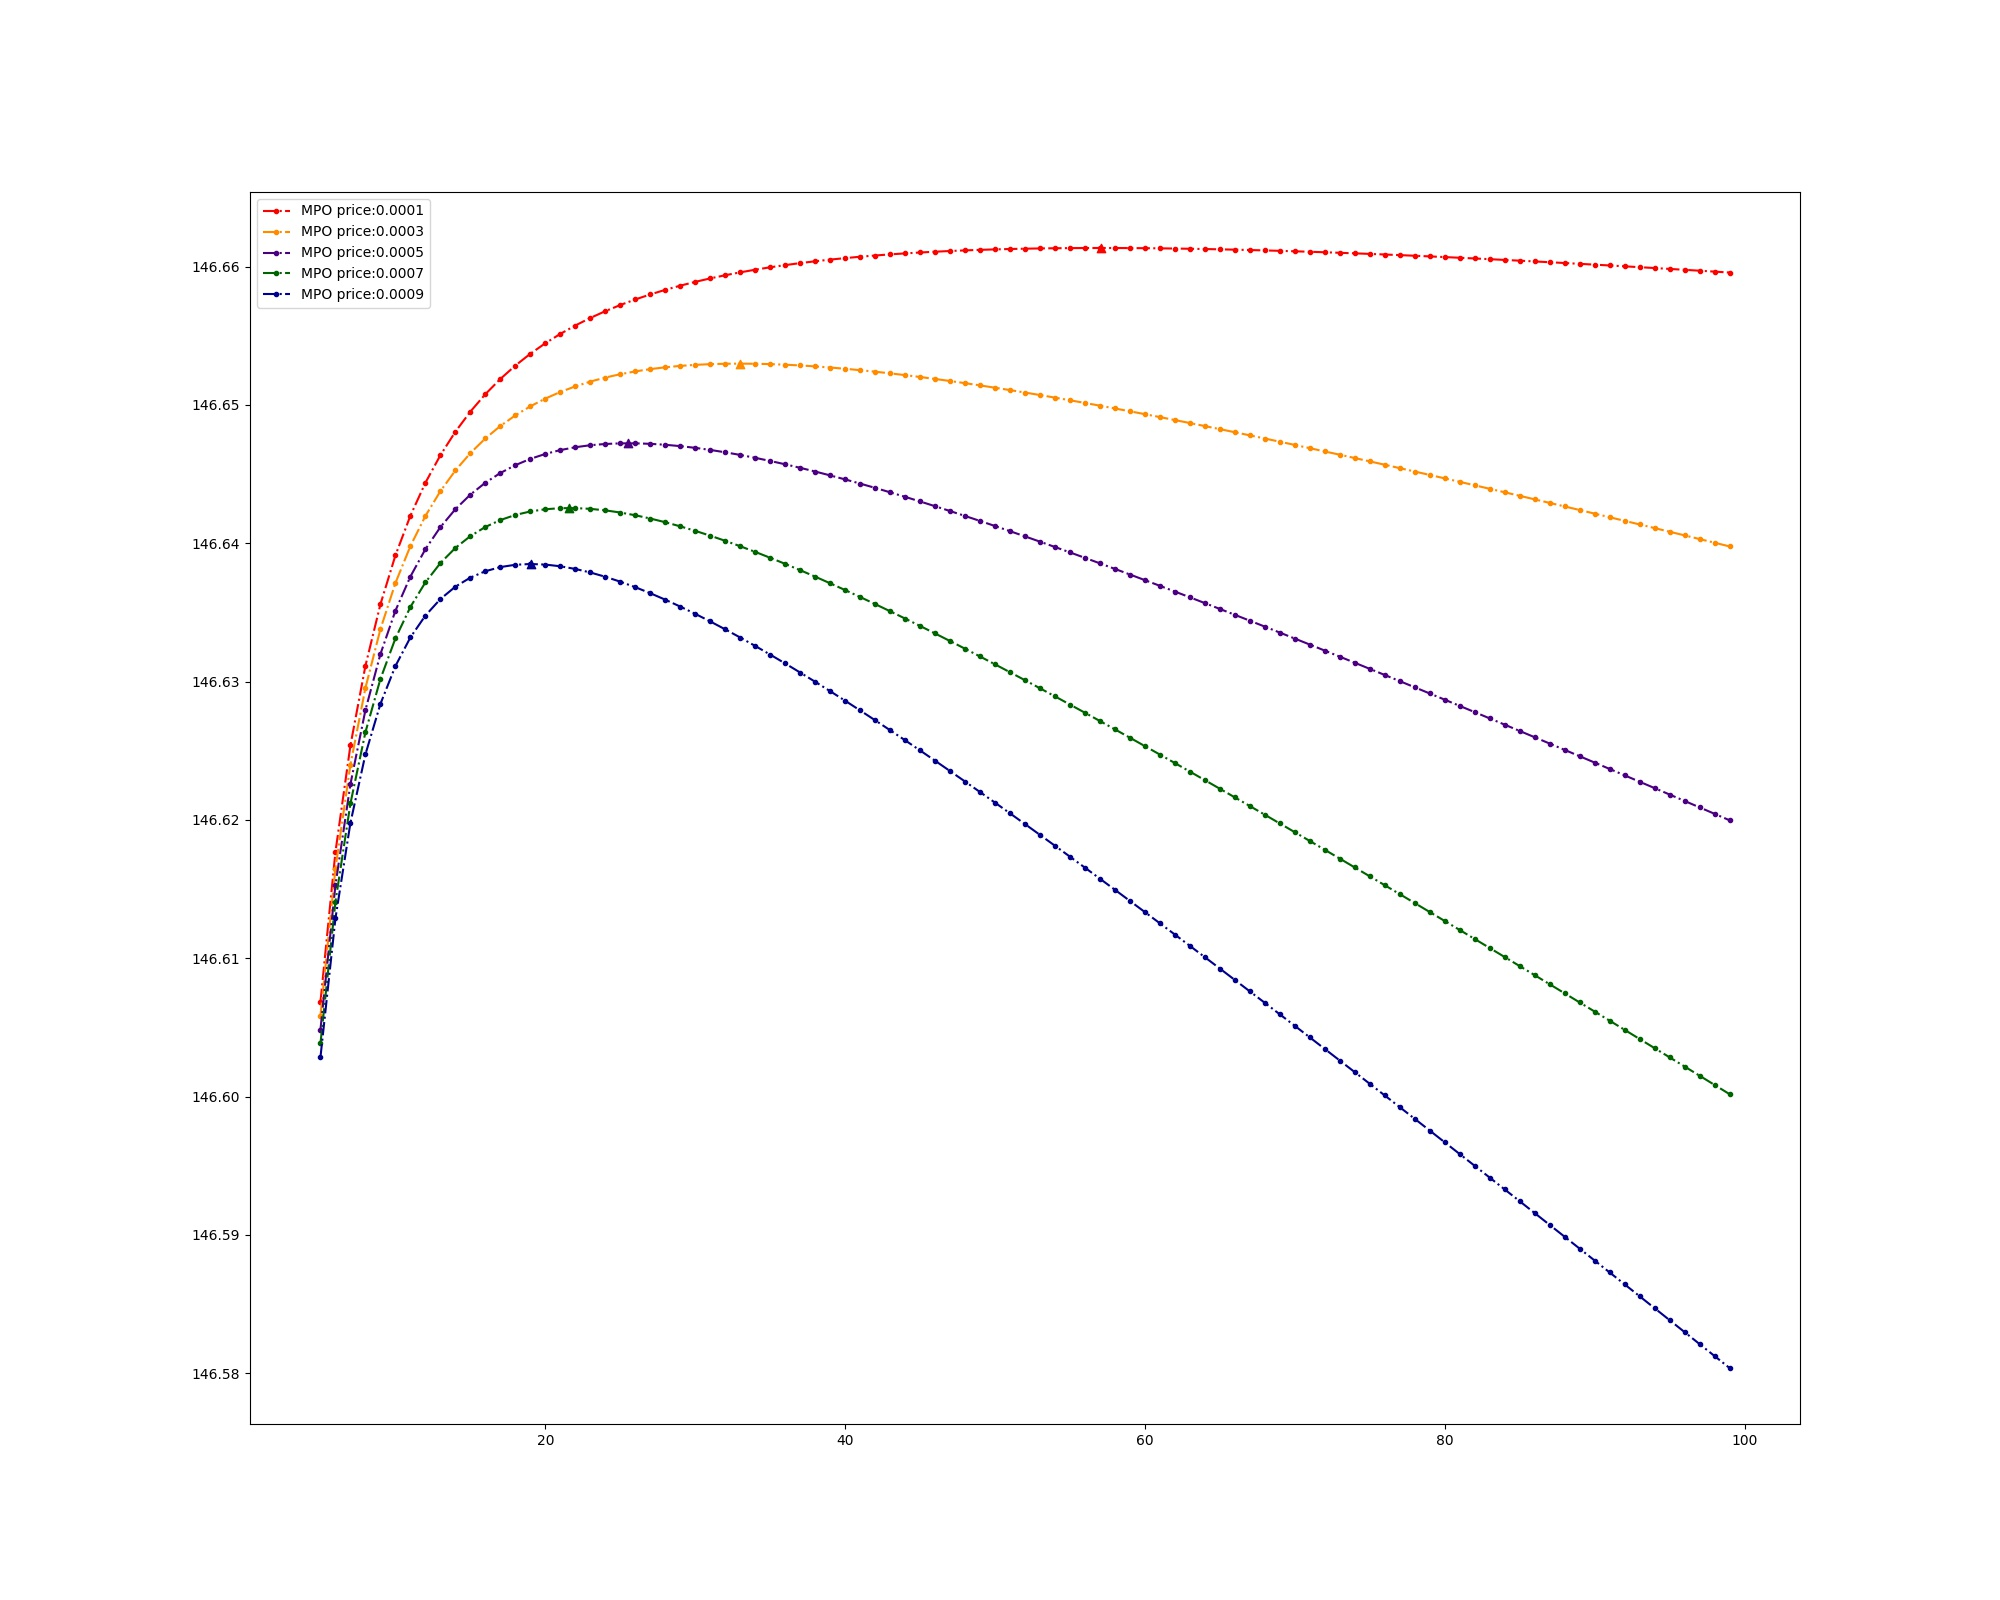
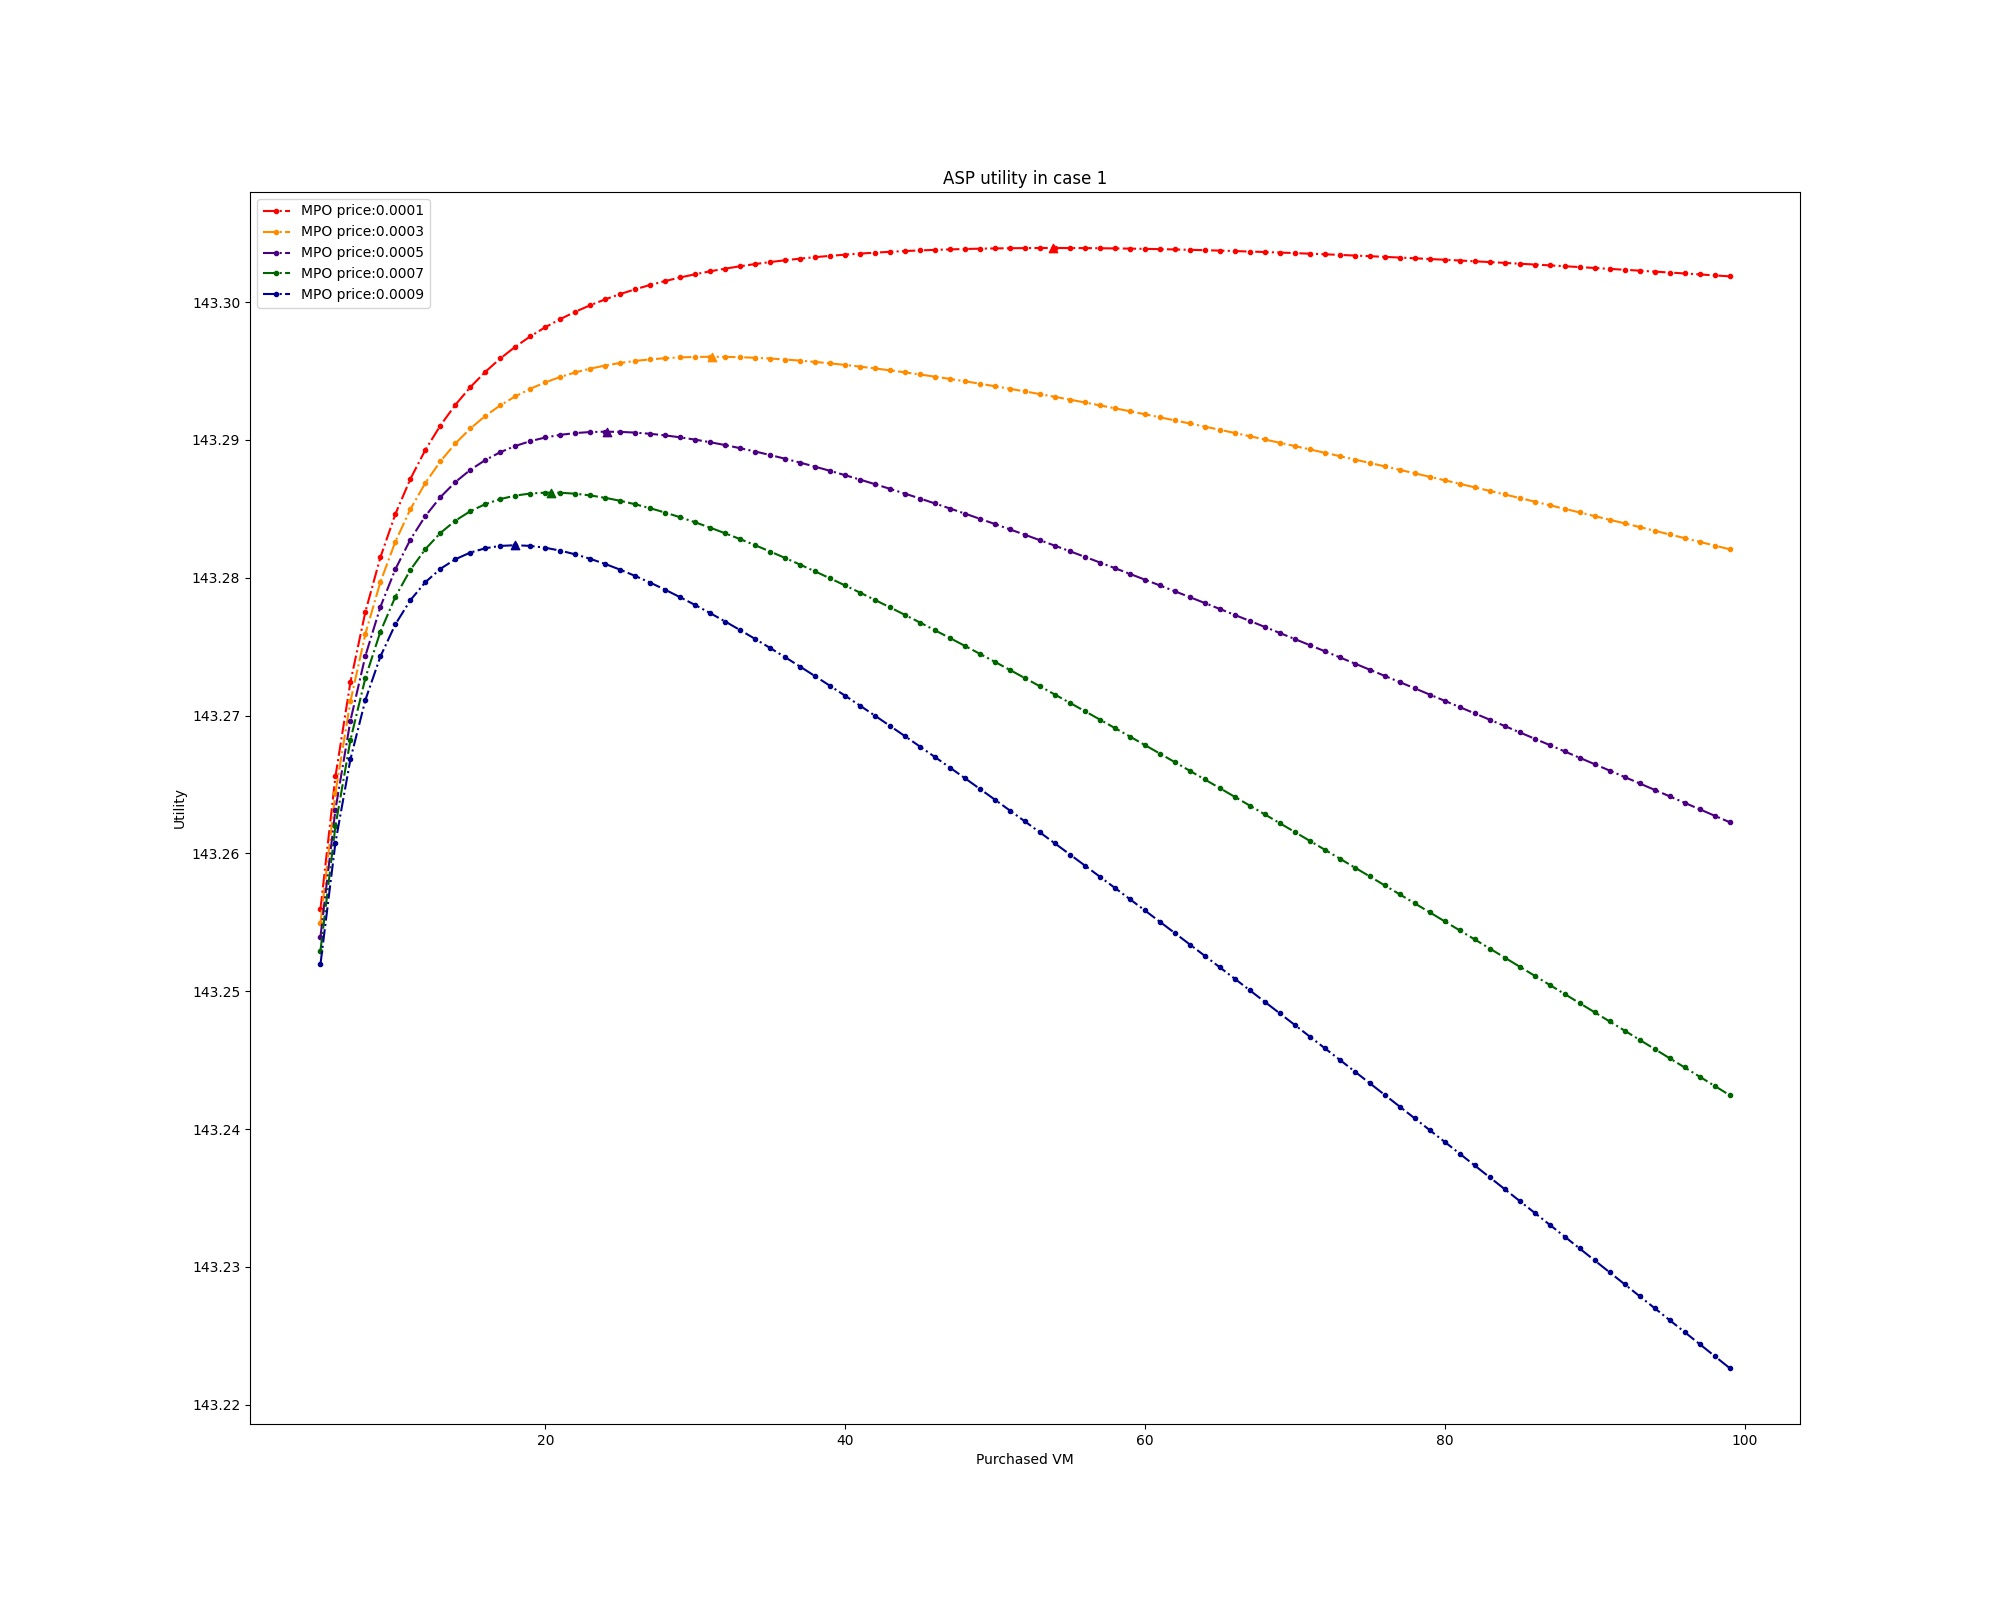
add new plot

diff --git a/simulation_code/asp.py b/simulation_code/asp.py
@@ -127,7 +127,11 @@ class ASP():
                 plt.legend(loc="best")
                 z_v = []
                 ut = []
+            plt.title('ASP utility in case 1')
+            plt.xlabel('Purchased VM')
+            plt.ylabel('Utility')
             plt.savefig('./asp_utility_case1.jpg')
+            plt.close()
         else:
             plt.figure(figsize=(20, 16))
             for mpo_price in mpo_lst:
@@ -141,7 +145,7 @@ class ASP():
                 plt.scatter(self.z_v, self.utility, color=color_dict[mpo_price], marker='^')
                 for i in range(5, 100):
                     self.z_v = i
-                    self.z_h = self.chi * self.z_v
+                    self.z_h = 0
                     self.set_process_time()
                     self.set_utility()
                     z_v.append(self.z_v)
@@ -150,6 +154,56 @@ class ASP():
                 plt.legend(loc="best")
                 ut = []
                 z_v = []
+            plt.title('ASP utility in case 2')
+            plt.xlabel('Purchased VM')
+            plt.ylabel('Utility')
             plt.savefig('./asp_utility_case2.jpg')
-            print('case2')
+            plt.close()
+
+    def plot_max_zh(self):
+        if GLOBAL_ETA > self.service_rate:
+            self.mpo_price = 0.001
+            ut = []
+            z_h = []
+            plt.figure(figsize=(20, 16))
+            for z in range(100, 105, 1):
+                self.z_v = z
+                for i in range(11):
+                    i = i / 10
+                    self.z_h = self.z_v * i
+                    self.set_process_time()
+                    self.set_utility()
+                    z_h.append(i)
+                    ut.append(self.utility)
+                plt.plot(z_h, ut, marker='.', linestyle='-.', label=f"VM :{self.z_v}")
+                ut = []
+                z_h = []
+            plt.title('ASP utility in case 1 with different z_h')
+            plt.xlabel('Security VM ratio')
+            plt.ylabel('Utility')
+            plt.legend(loc="best")
+            plt.savefig('./asp_utility_z_h_case1.jpg')
+            plt.close()
+        else:
+            self.mpo_price = 0.001
+            ut = []
+            z_h = []
+            plt.figure(figsize=(20, 16))
+            for z in range(100, 105, 1):
+                self.z_v = z
+                for i in range(11):
+                    i = i / 10
+                    self.z_h = self.z_v * i
+                    self.set_process_time()
+                    self.set_utility()
+                    z_h.append(i)
+                    ut.append(self.utility)
+                plt.plot(z_h, ut, marker='.', linestyle='-.', label=f"VM :{self.z_v}")
+                ut = []
+                z_h = []
+            plt.title('ASP utility in case 2 with different z_h')
+            plt.xlabel('Security VM ratio')
+            plt.ylabel('Utility')
+            plt.legend(loc="best")
+            plt.savefig('./asp_utility_z_h_case2.jpg')
             plt.close()

diff --git a/simulation_code/mpo.py b/simulation_code/mpo.py
@@ -66,6 +66,9 @@ class MPO():
 
         plt.figure(figsize=(20, 16))
         plt.plot(pr, ut, marker='.', linestyle='-.')
+        plt.title('Utility of MPO')
+        plt.xlabel('MPO Price')
+        plt.ylabel('Utility')
         plt.vlines(self.bd, ymin=0, ymax=max(ut), linestyle='-', color ='red')
         plt.savefig('./utility.jpg')
         plt.close()
@@ -73,5 +76,8 @@ class MPO():
         plt.figure(figsize=(20, 16))
         plt.plot(pr, num, marker='.', linestyle='-.')
         plt.vlines(self.bd, ymin=0, ymax=max(num), linestyle='-', color ='red')
+        plt.title('Total Purchased VM')
+        plt.xlabel('MPO Price')
+        plt.ylabel('Purchased VM')
         plt.savefig('./vm_number.jpg')
         plt.close()

diff --git a/simulation_code/run.py b/simulation_code/run.py
@@ -8,3 +8,4 @@ if __name__ == '__main__':
     mpo.optimize_phi()
     asp = ASP()
     asp.plot_max()
+    asp.plot_max_zh()
